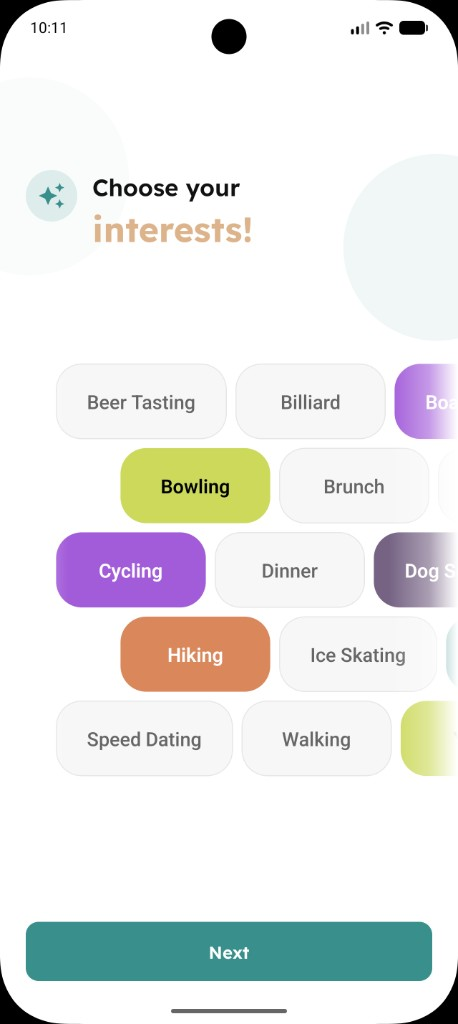
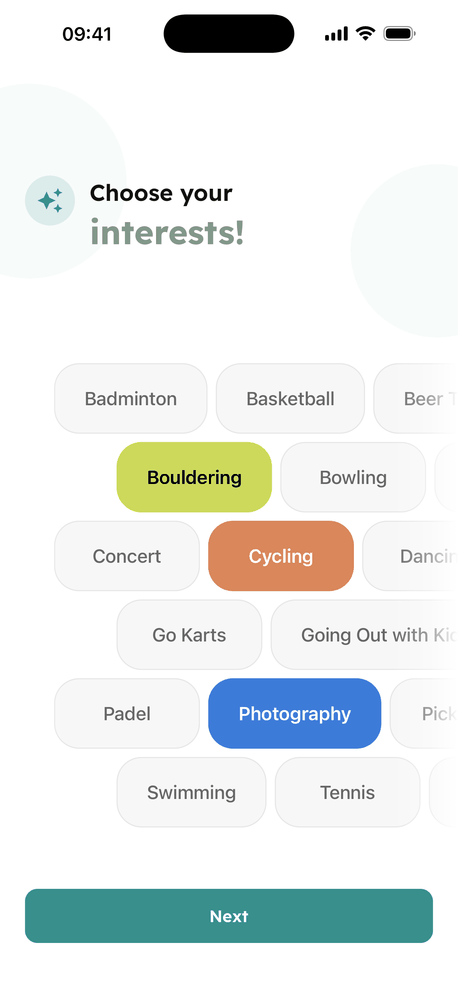
Screenshots from the November store set (demo accounts)
The May screenshots predate the chat redesign and showed real-looking
people. The new five come from the raw iPhone captures of the 1.0.1 store
screenshots (demo accounts on dev): interests, Join, results, chat and
keep in touch. Resized to 458 px wide, 256 colours. The unused login shot
is gone.

diff --git a/index.html b/index.html
@@ -177,19 +177,19 @@
       </div>
       <div class="screenshots-scroll">
         <div class="phone-frame side">
-          <img src="assets/screenshots/screen-interests.png" data-i18n-alt="index.altInterests" alt="Choose your interests" loading="lazy" />
+          <img src="assets/screenshots/screen-interests.png" data-i18n-alt="index.altInterests" alt="Choosing interests when you sign up" width="458" height="995" loading="lazy" />
         </div>
         <div class="phone-frame side">
-          <img src="assets/screenshots/screen-join.png" data-i18n-alt="index.altJoin" alt="Find events to join" loading="lazy" />
+          <img src="assets/screenshots/screen-join.png" data-i18n-alt="index.altJoin" alt="Join screen with an activity, a search area and an invitation code link" width="458" height="995" loading="lazy" />
         </div>
         <div class="phone-frame featured">
-          <img src="assets/screenshots/screen-matches.png" data-i18n-alt="index.altMatches" alt="Matched events near you" loading="lazy" />
+          <img src="assets/screenshots/screen-matches.png" data-i18n-alt="index.altMatches" alt="Running events near Kraków with photos and a Join button" width="458" height="995" loading="lazy" />
         </div>
         <div class="phone-frame side">
-          <img src="assets/screenshots/screen-event.png" data-i18n-alt="index.altEvent" alt="Event details and participants" loading="lazy" />
+          <img src="assets/screenshots/screen-chat.png" data-i18n-alt="index.altChat" alt="Group chat of a board games night before the meetup" width="458" height="995" loading="lazy" />
         </div>
         <div class="phone-frame side">
-          <img src="assets/screenshots/screen-profile.png" data-i18n-alt="index.altProfile" alt="Your profile and interests" loading="lazy" />
+          <img src="assets/screenshots/screen-stay-in-touch.png" data-i18n-alt="index.altStayInTouch" alt="After the event: choosing who to stay in touch with" width="458" height="995" loading="lazy" />
         </div>
       </div>
     </div>

diff --git a/assets/js/translations-en.js b/assets/js/translations-en.js
@@ -88,11 +88,11 @@ window.JOIYN_TRANSLATIONS.en = {
     screenshotsTitle: "See what it looks like",
     screenshotsSubtitle:
       "From picking your interests to showing up at the event. This is what Joiyn looks like in practice.",
-    altInterests: "Choose your interests",
-    altJoin: "Find events to join",
-    altMatches: "Matched events near you",
-    altEvent: "Event details and participants",
-    altProfile: "Your profile and interests",
+    altInterests: "Choosing interests when you sign up",
+    altJoin: "Join screen with an activity, a search area and an invitation code link",
+    altMatches: "Running events near Kraków with photos and a Join button",
+    altChat: "Group chat of a board games night before the meetup",
+    altStayInTouch: "After the event: choosing who to stay in touch with",
     howEyebrow: "How it works",
     howTitle: "Three steps to your next meetup",
     howSubtitle: "Pick your interests, find something happening nearby, and show up. That's pretty much it.",

diff --git a/assets/js/translations-pl.js b/assets/js/translations-pl.js
@@ -91,11 +91,11 @@ window.JOIYN_TRANSLATIONS.pl = {
     screenshotsTitle: "Zobacz, jak to wygląda",
     screenshotsSubtitle:
       "Od wyboru zainteresowań po samo spotkanie. Tak Joiyn wygląda w praktyce.",
-    altInterests: "Wybór zainteresowań",
-    altJoin: "Szukanie wydarzeń",
-    altMatches: "Dopasowane wydarzenia w pobliżu",
-    altEvent: "Szczegóły wydarzenia i uczestnicy",
-    altProfile: "Twój profil i zainteresowania",
+    altInterests: "Wybór zainteresowań przy zakładaniu konta",
+    altJoin: "Ekran Dołącz z aktywnością, obszarem wyszukiwania i linkiem do kodu zaproszenia",
+    altMatches: "Wydarzenia biegowe w Krakowie ze zdjęciami i przyciskiem Dołącz",
+    altChat: "Czat grupy przed wieczorem z planszówkami",
+    altStayInTouch: "Po wydarzeniu: wybór osób, z którymi chcesz zostać w kontakcie",
     howEyebrow: "Jak to działa",
     howTitle: "Trzy kroki do następnego spotkania",
     howSubtitle:

diff --git a/assets/css/styles.css b/assets/css/styles.css
@@ -771,6 +771,7 @@ button { cursor: pointer; font-family: inherit; }
 }
 .phone-frame img {
   width: 100%;
+  height: auto;
   display: block;
   border-radius: 30px;
 }
